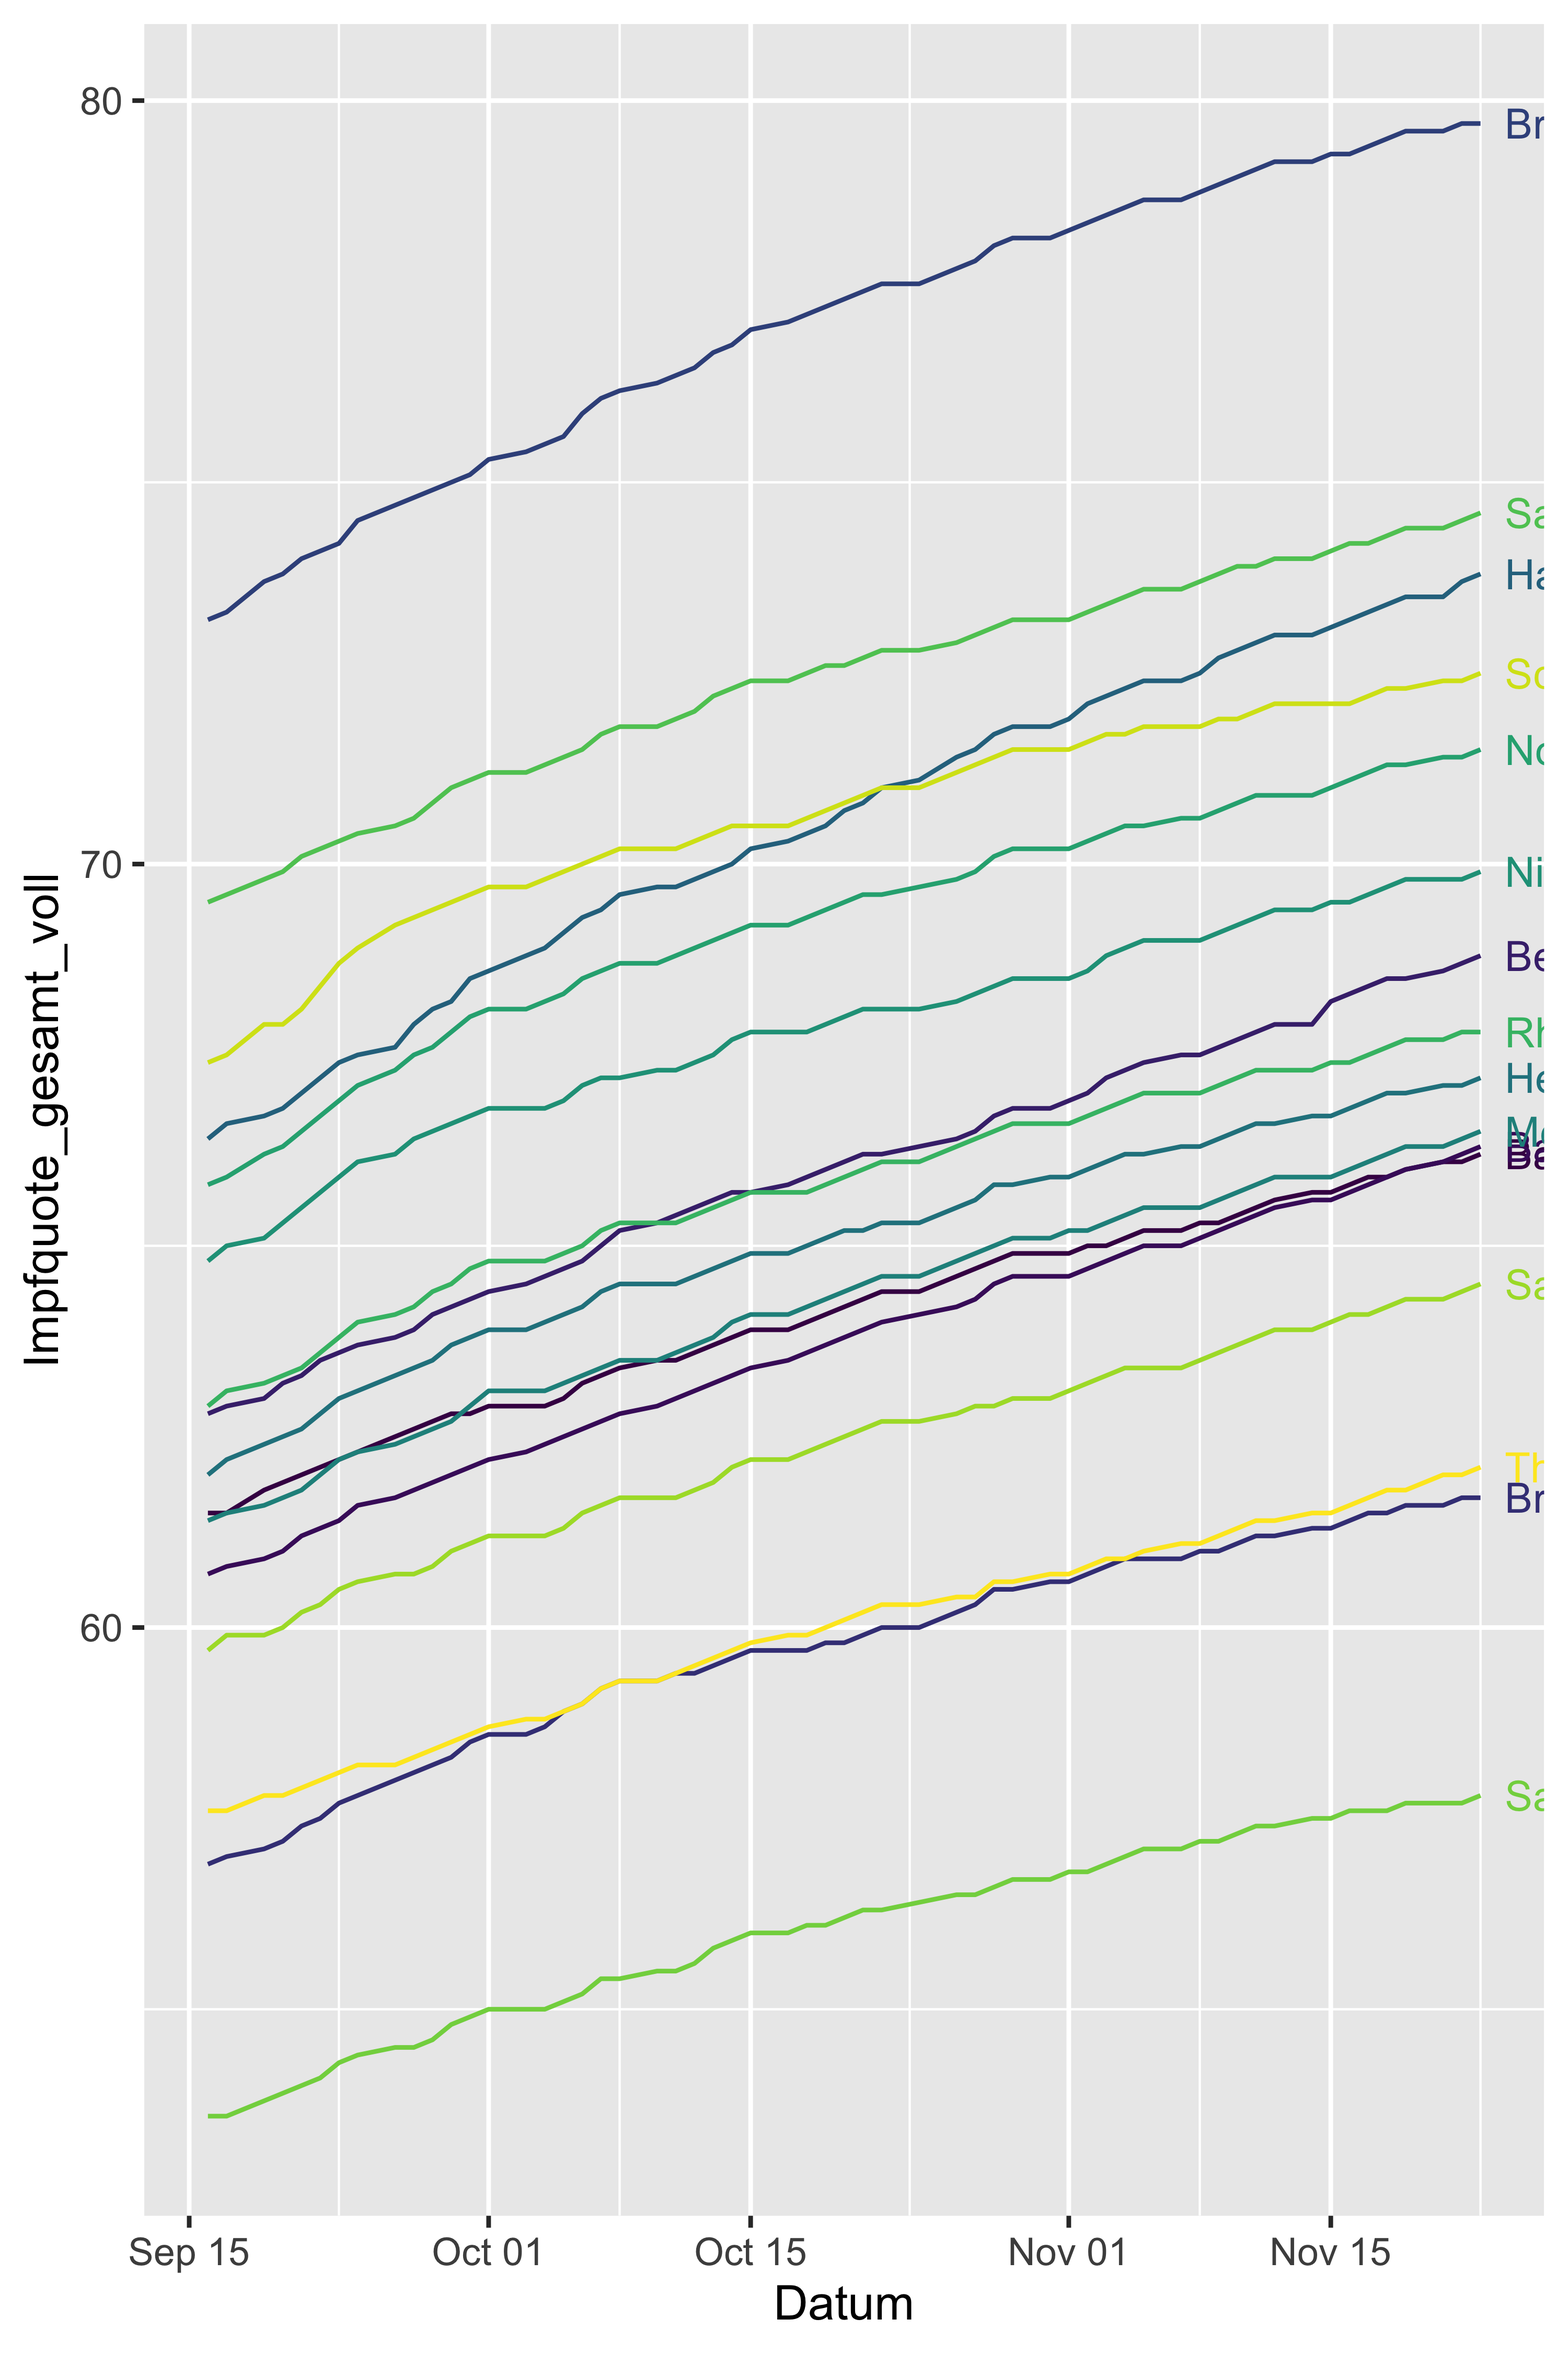
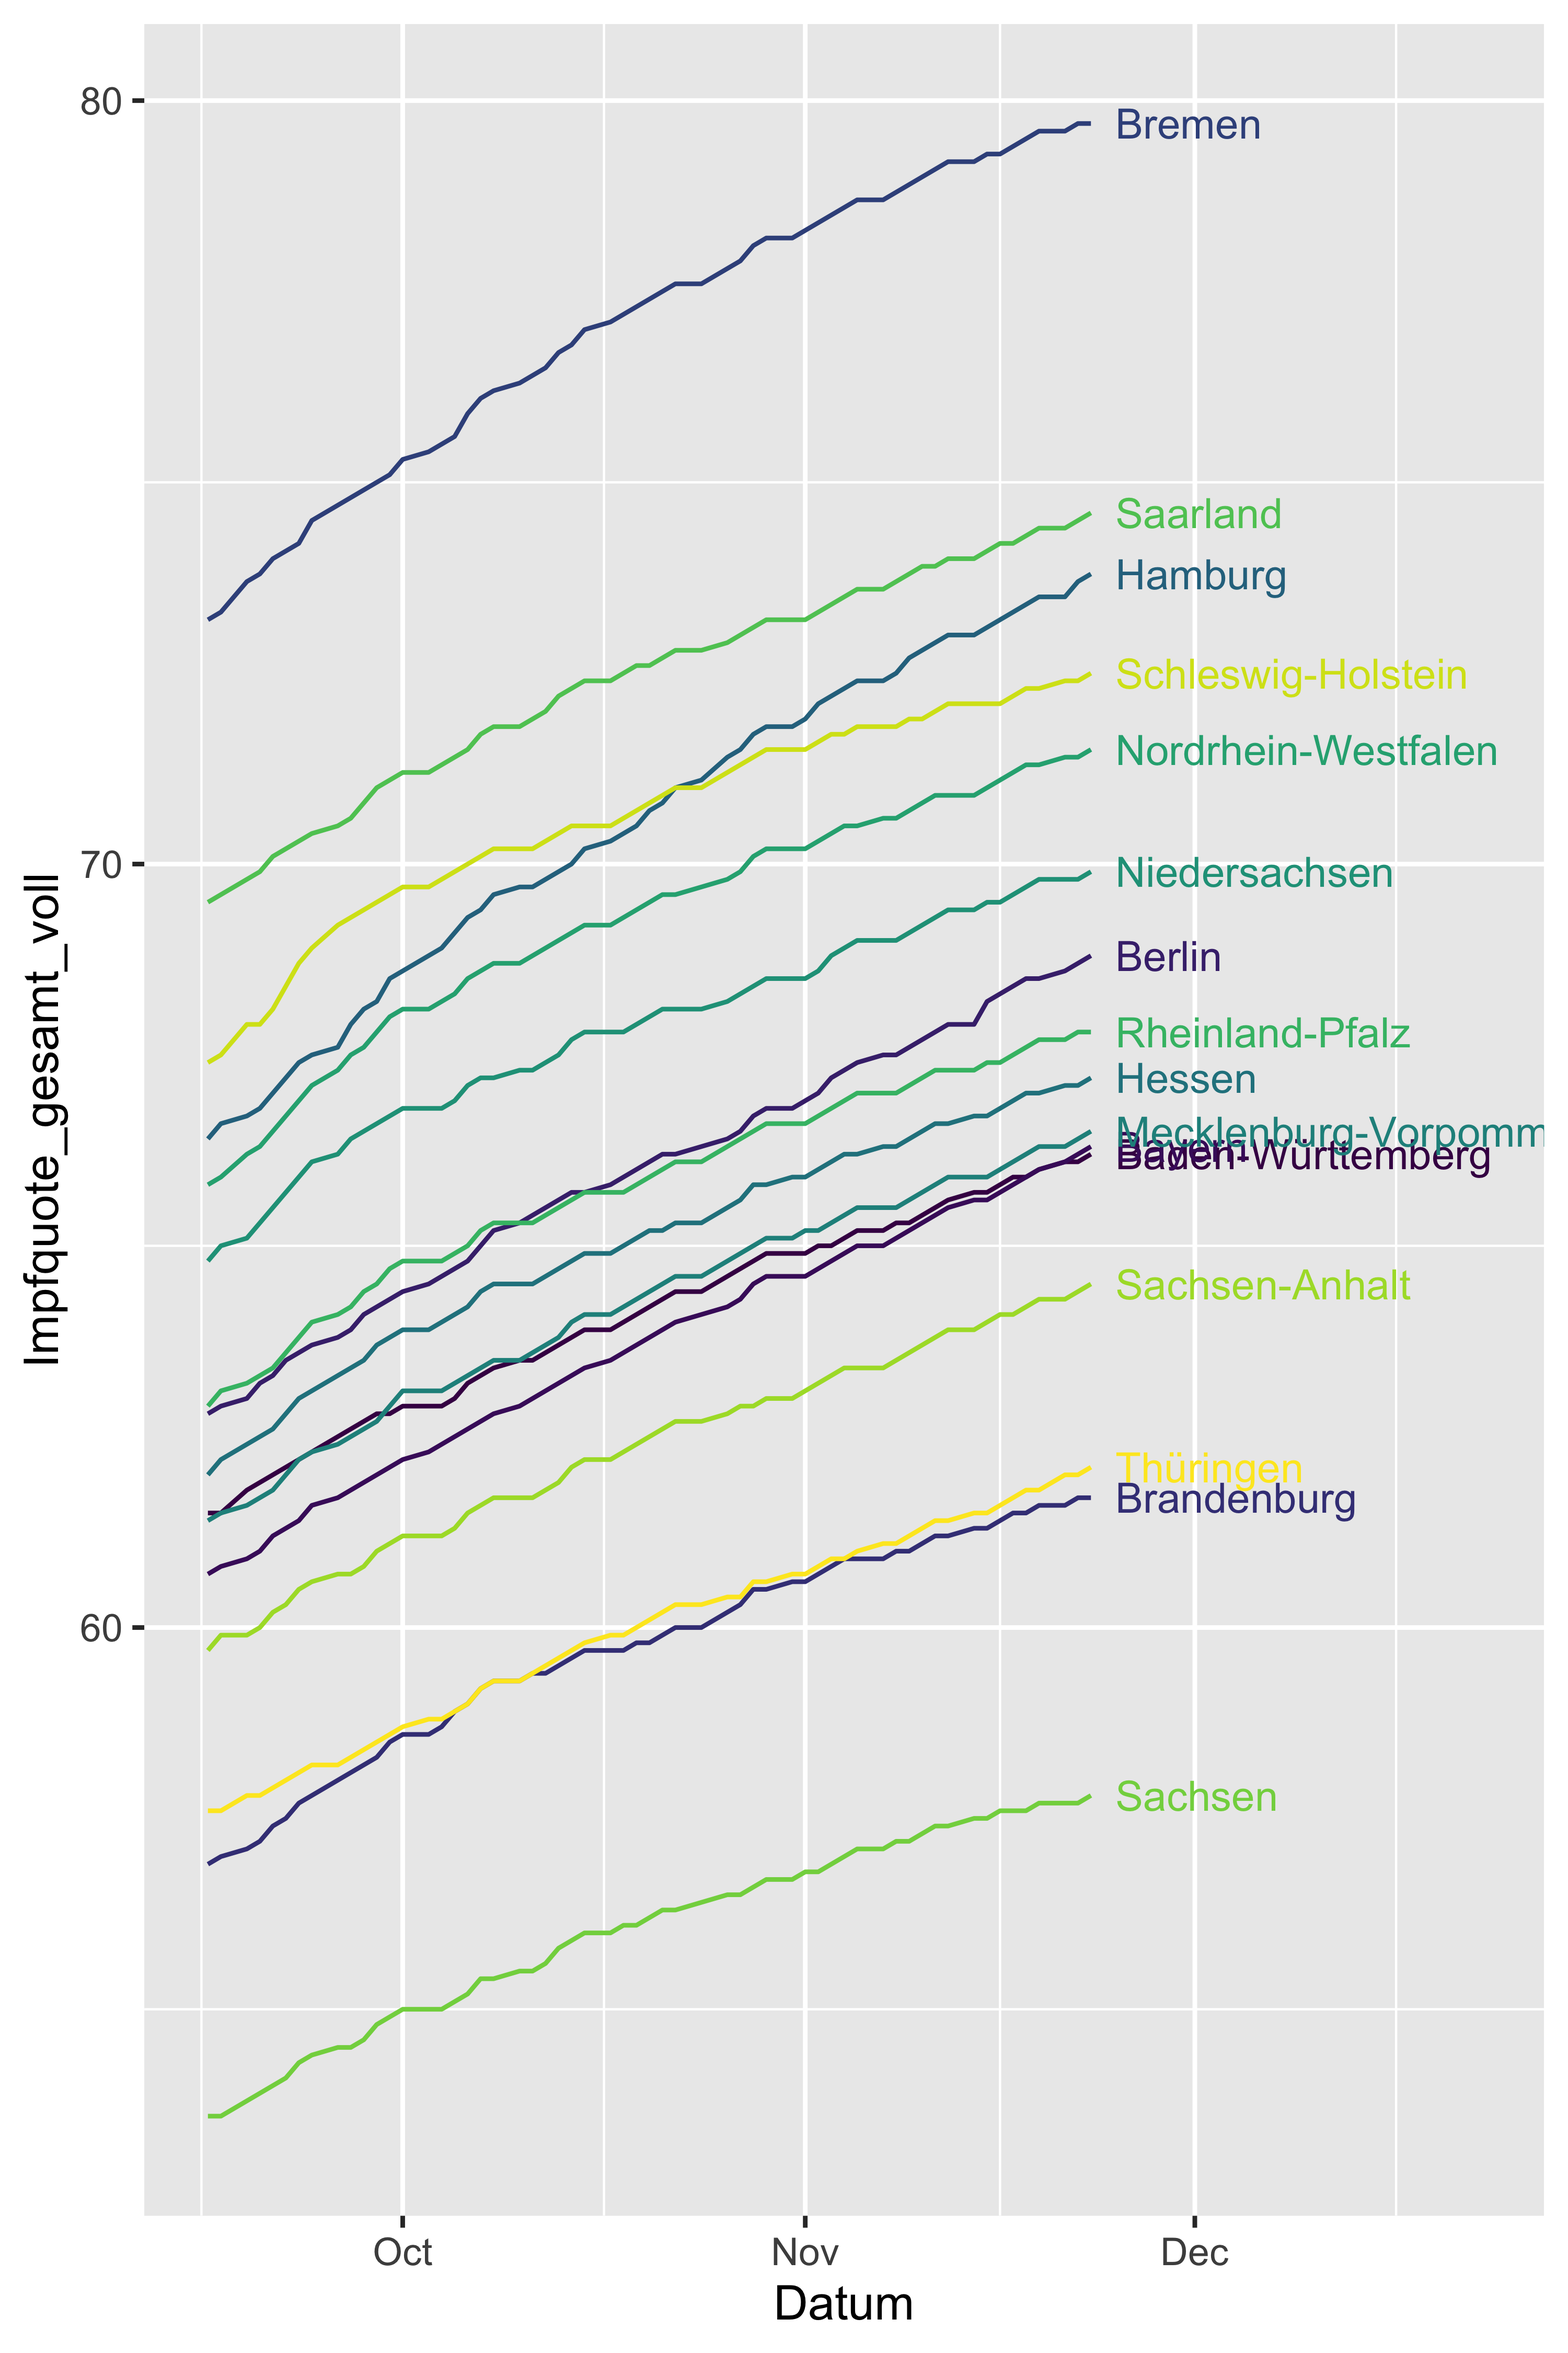
geom_dl

diff --git a/content/post/2021-11-27-analyse-der-rki-coronadaten/index.html b/content/post/2021-11-27-analyse-der-rki-coronadaten/index.html
@@ -879,12 +879,18 @@ Vielleicht etwas dezenter?</p>
 <p>Hm, alles andere als perfekt. Aber lassen wir es damit gut sein und
 wenden uns wichtigeren Themen zu.
 Es ist allzu leicht, sich in (vielleicht ganz unterhaltsamen) Details zu verstricken.</p>
-<p><a href="http://rolandtanglao.com/2018/10/01/p1-directlabels-in-r-labels-at-the-end-of-lines/">Hier</a> gibt es noch ein interessantes Paket, um Liniendiagramme mit Labels zu versehen.</p>
+<p><a href="http://rolandtanglao.com/2018/10/01/p1-directlabels-in-r-labels-at-the-end-of-lines/">Hier</a> gibt es noch ein interessantes Paket,
+um Liniendiagramme mit Labels zu versehen.</p>
+<p>Probieren wir das doch mal aus:</p>
 <pre class="r"><code>vacc_time_df %&gt;% 
   filter(Bundesland != &quot;Deutschland&quot;) %&gt;% 
   ggplot() +
-  aes(x = Datum, y = Impfquote_gesamt_voll, color = Bundesland) +
+  aes(x = Datum, 
+      y = Impfquote_gesamt_voll, 
+      color = Bundesland) +
   geom_line() +
+  scale_x_date(limits = c(min(vacc_time_df$Datum),
+                                max(vacc_time_df$Datum)+30)) +
   scale_color_viridis_d(breaks = NULL) +
   geom_dl(aes(label = Bundesland),
           method = list(dl.trans(x = x + 0.2), &quot;last.points&quot;, cex = 0.8)) </code></pre>
@@ -2962,7 +2968,9 @@ So wird vielleicht von einer möglichen Ursache gesprochen,
 aber eine zweite außen vorgelassen.
 Oder es wird von einem Fall mit schweren Nebenwirkungen einer Impfung berichtet, aber nicht davon,
 dass eine viel größere Zahl von Menschenleben durch die Impfung gerettet wurde.</p>
-<p>Zum Glück gibt es auch viele gute Berichtserstattung, z.B. - eine Replik auf einen Fall ähnlich gelagert zu dem gerade Beschriebenen - <a href="https://www.tagesschau.de/faktenfinder/impfquote-uebersterblichkeit-101.html">hier</a>.</p>
+<p>Zum Glück gibt es auch viele gute Berichtserstattung,
+z.B. - eine Replik auf einen Fall ähnlich gelagert
+zu dem gerade Beschriebenen - <a href="https://www.tagesschau.de/faktenfinder/impfquote-uebersterblichkeit-101.html">hier</a>.</p>
 </div>
 </div>
 <div id="sessioninfo" class="section level1" number="9">
